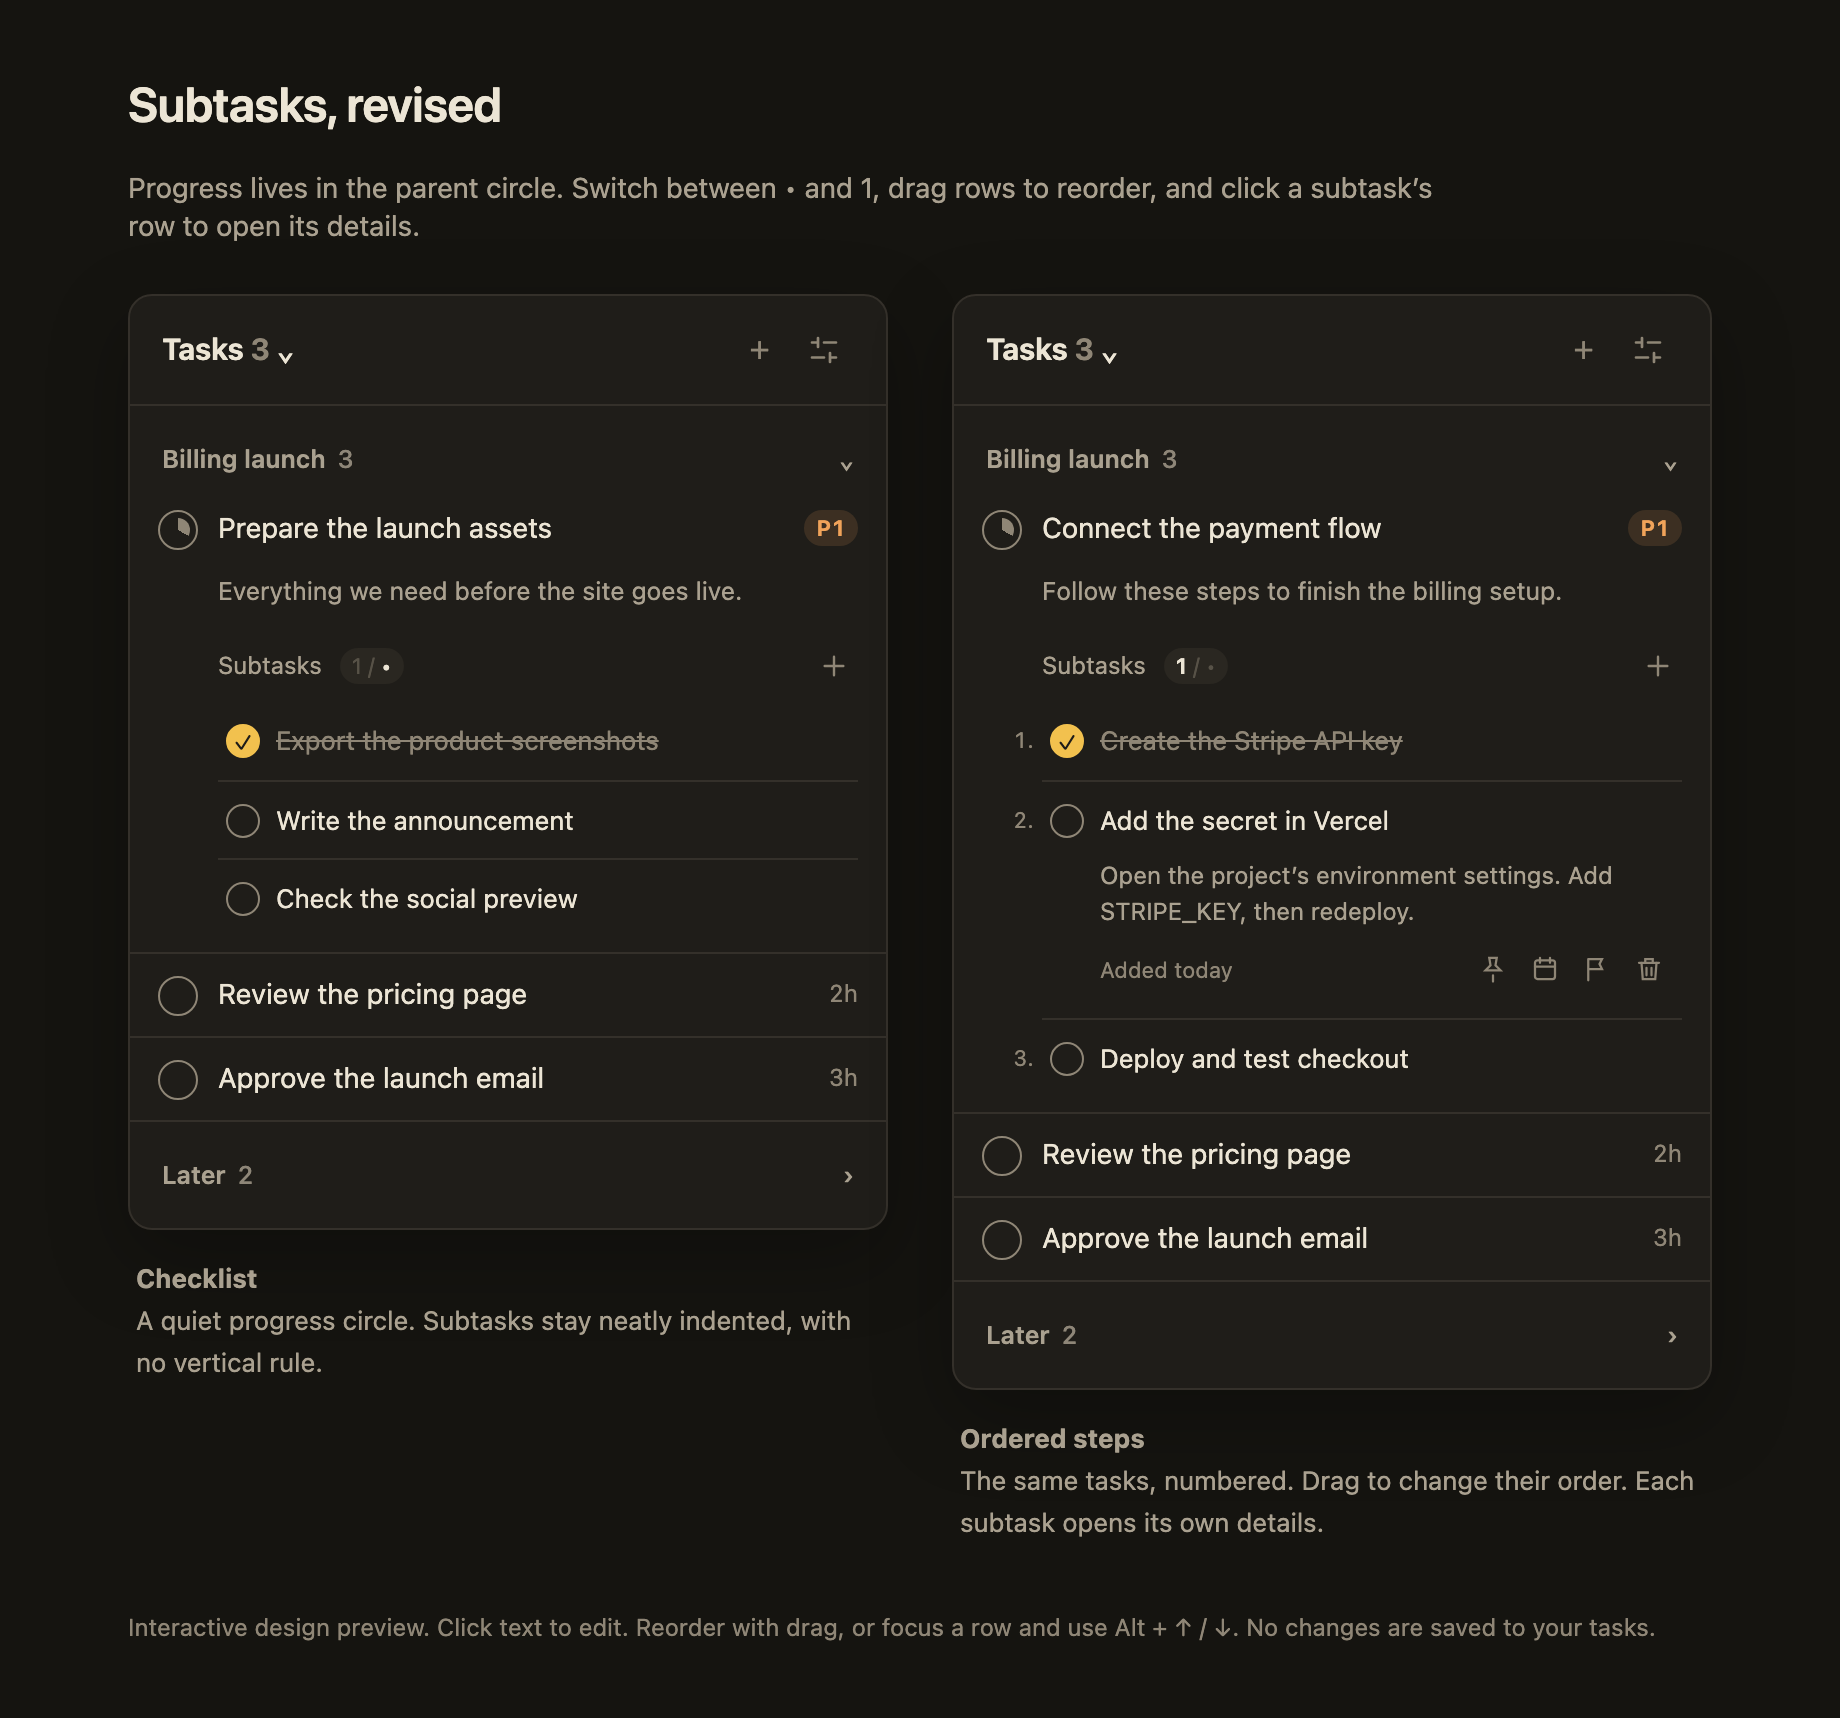
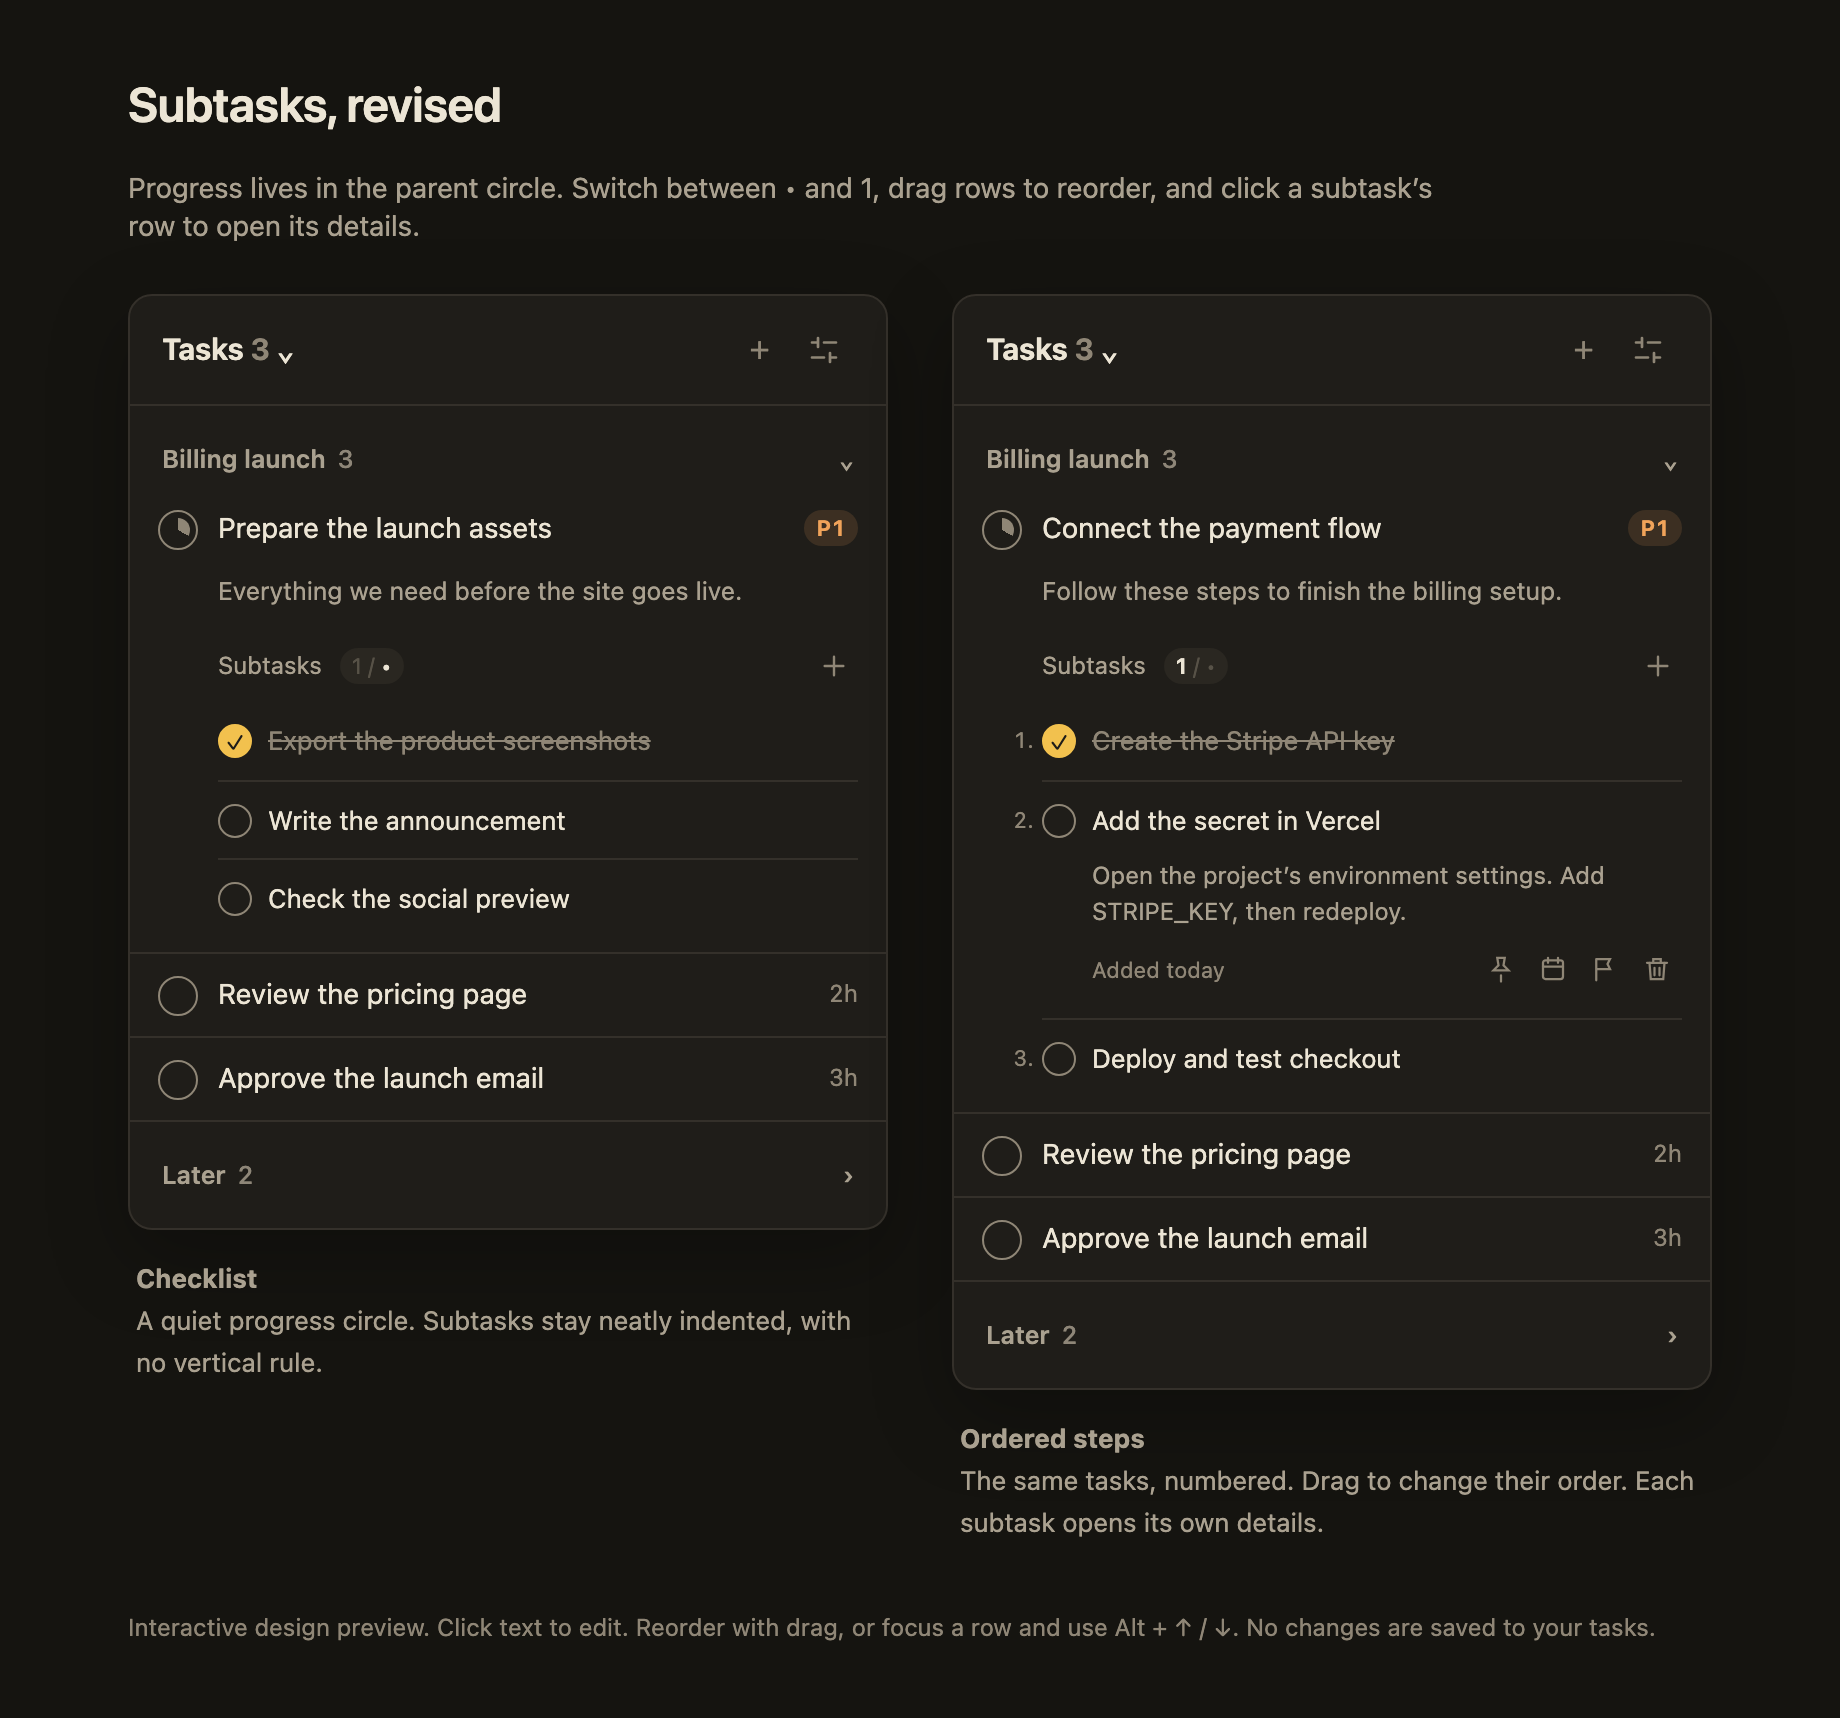
Align subtask checkboxes with their section header

diff --git a/docs/mockups/subtasks.html b/docs/mockups/subtasks.html
@@ -28,7 +28,7 @@ body { display: block; height: auto; background: #151410; padding: 36px; color: 
 .mode .add-child svg { width: 16px; height: 16px; }
 .child { border-bottom: 1px solid var(--line); font-size: 13px; }
 .child:last-child { border-bottom: none; }
-.child-line { position: relative; display: flex; align-items: start; gap: 8px; padding: 10px 4px; cursor: grab; border-radius: 5px; }
+.child-line { position: relative; display: flex; align-items: start; gap: 8px; padding: 10px 0; cursor: grab; border-radius: 5px; }
 .child-line:hover { background: var(--bg-hover); }
 .child-line:active { cursor: grabbing; }
 .child .check { width: 17px; height: 17px; font-size: 11px; }
@@ -40,7 +40,7 @@ body { display: block; height: auto; background: #151410; padding: 36px; color: 
 .number { position: absolute; left: -18px; top: 11px; width: 14px; text-align: right; font-size: 11px; color: var(--muted); font-variant-numeric: tabular-nums; }
 .child.dragging { opacity: .4; }
 .child.drop-target { box-shadow: 0 -2px var(--accent); }
-.child-details { padding: 0 4px 12px 29px; }
+.child-details { padding: 0 0 12px 25px; }
 .child-details p { margin: 0 0 7px; color: var(--soft); font-size: 12px; line-height: 1.5; cursor: text; }
 .child-actions { display: flex; align-items: center; gap: 1px; }
 .child-actions small { font-size: 11px; color: var(--muted); margin-right: auto; }
